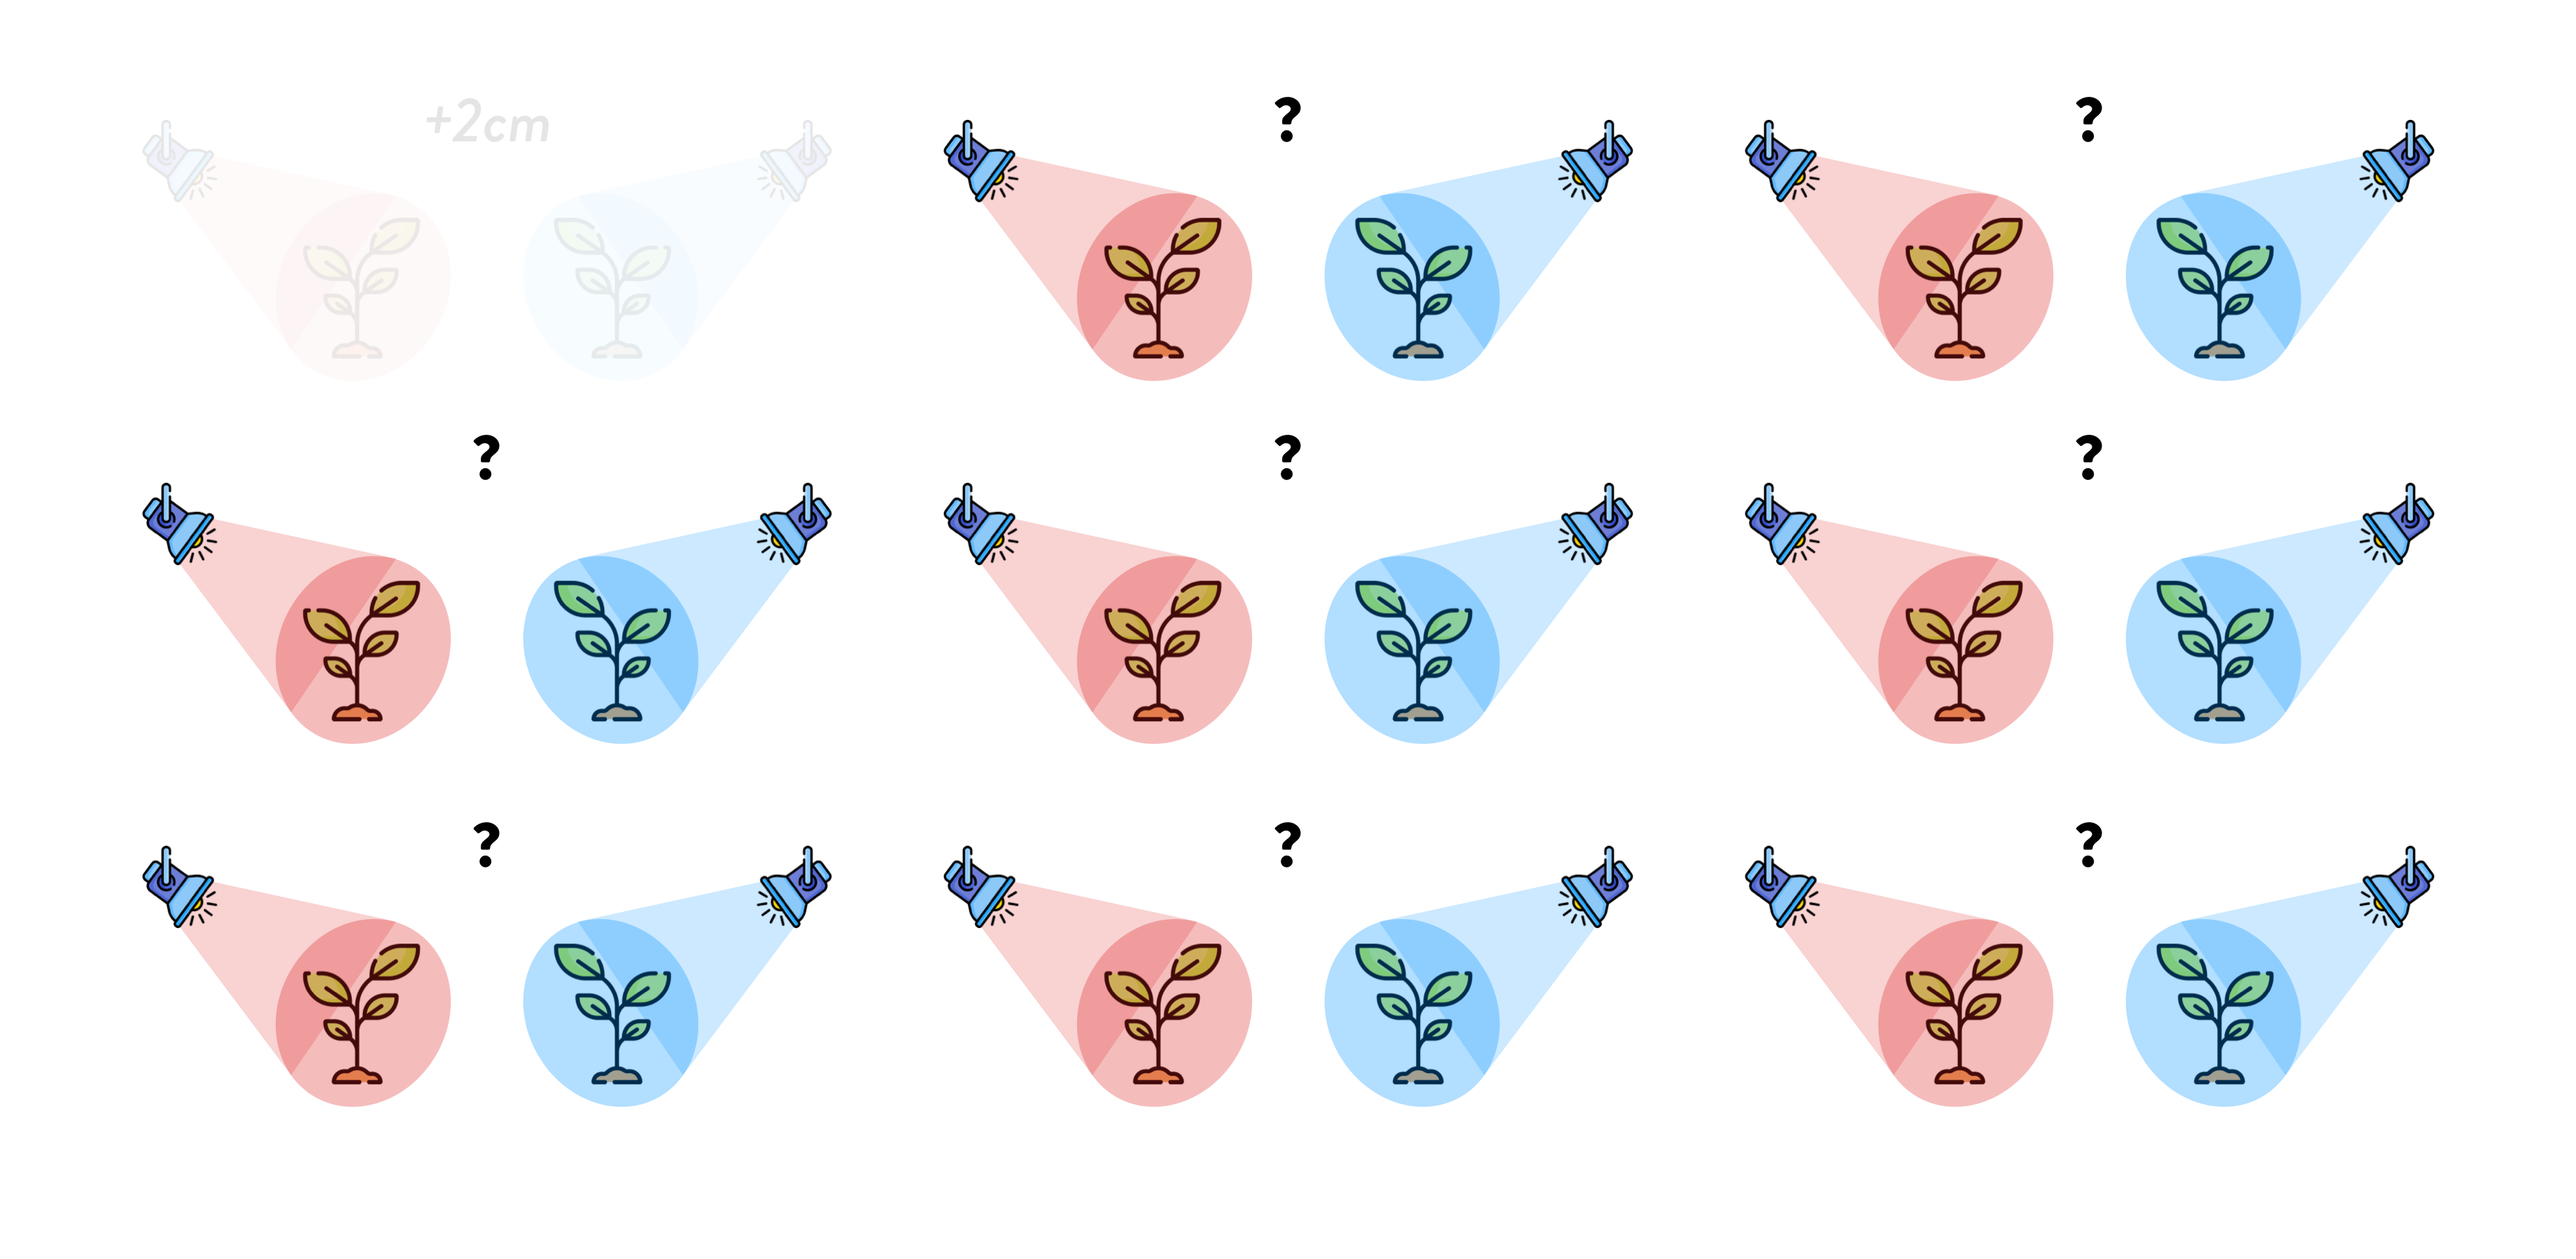
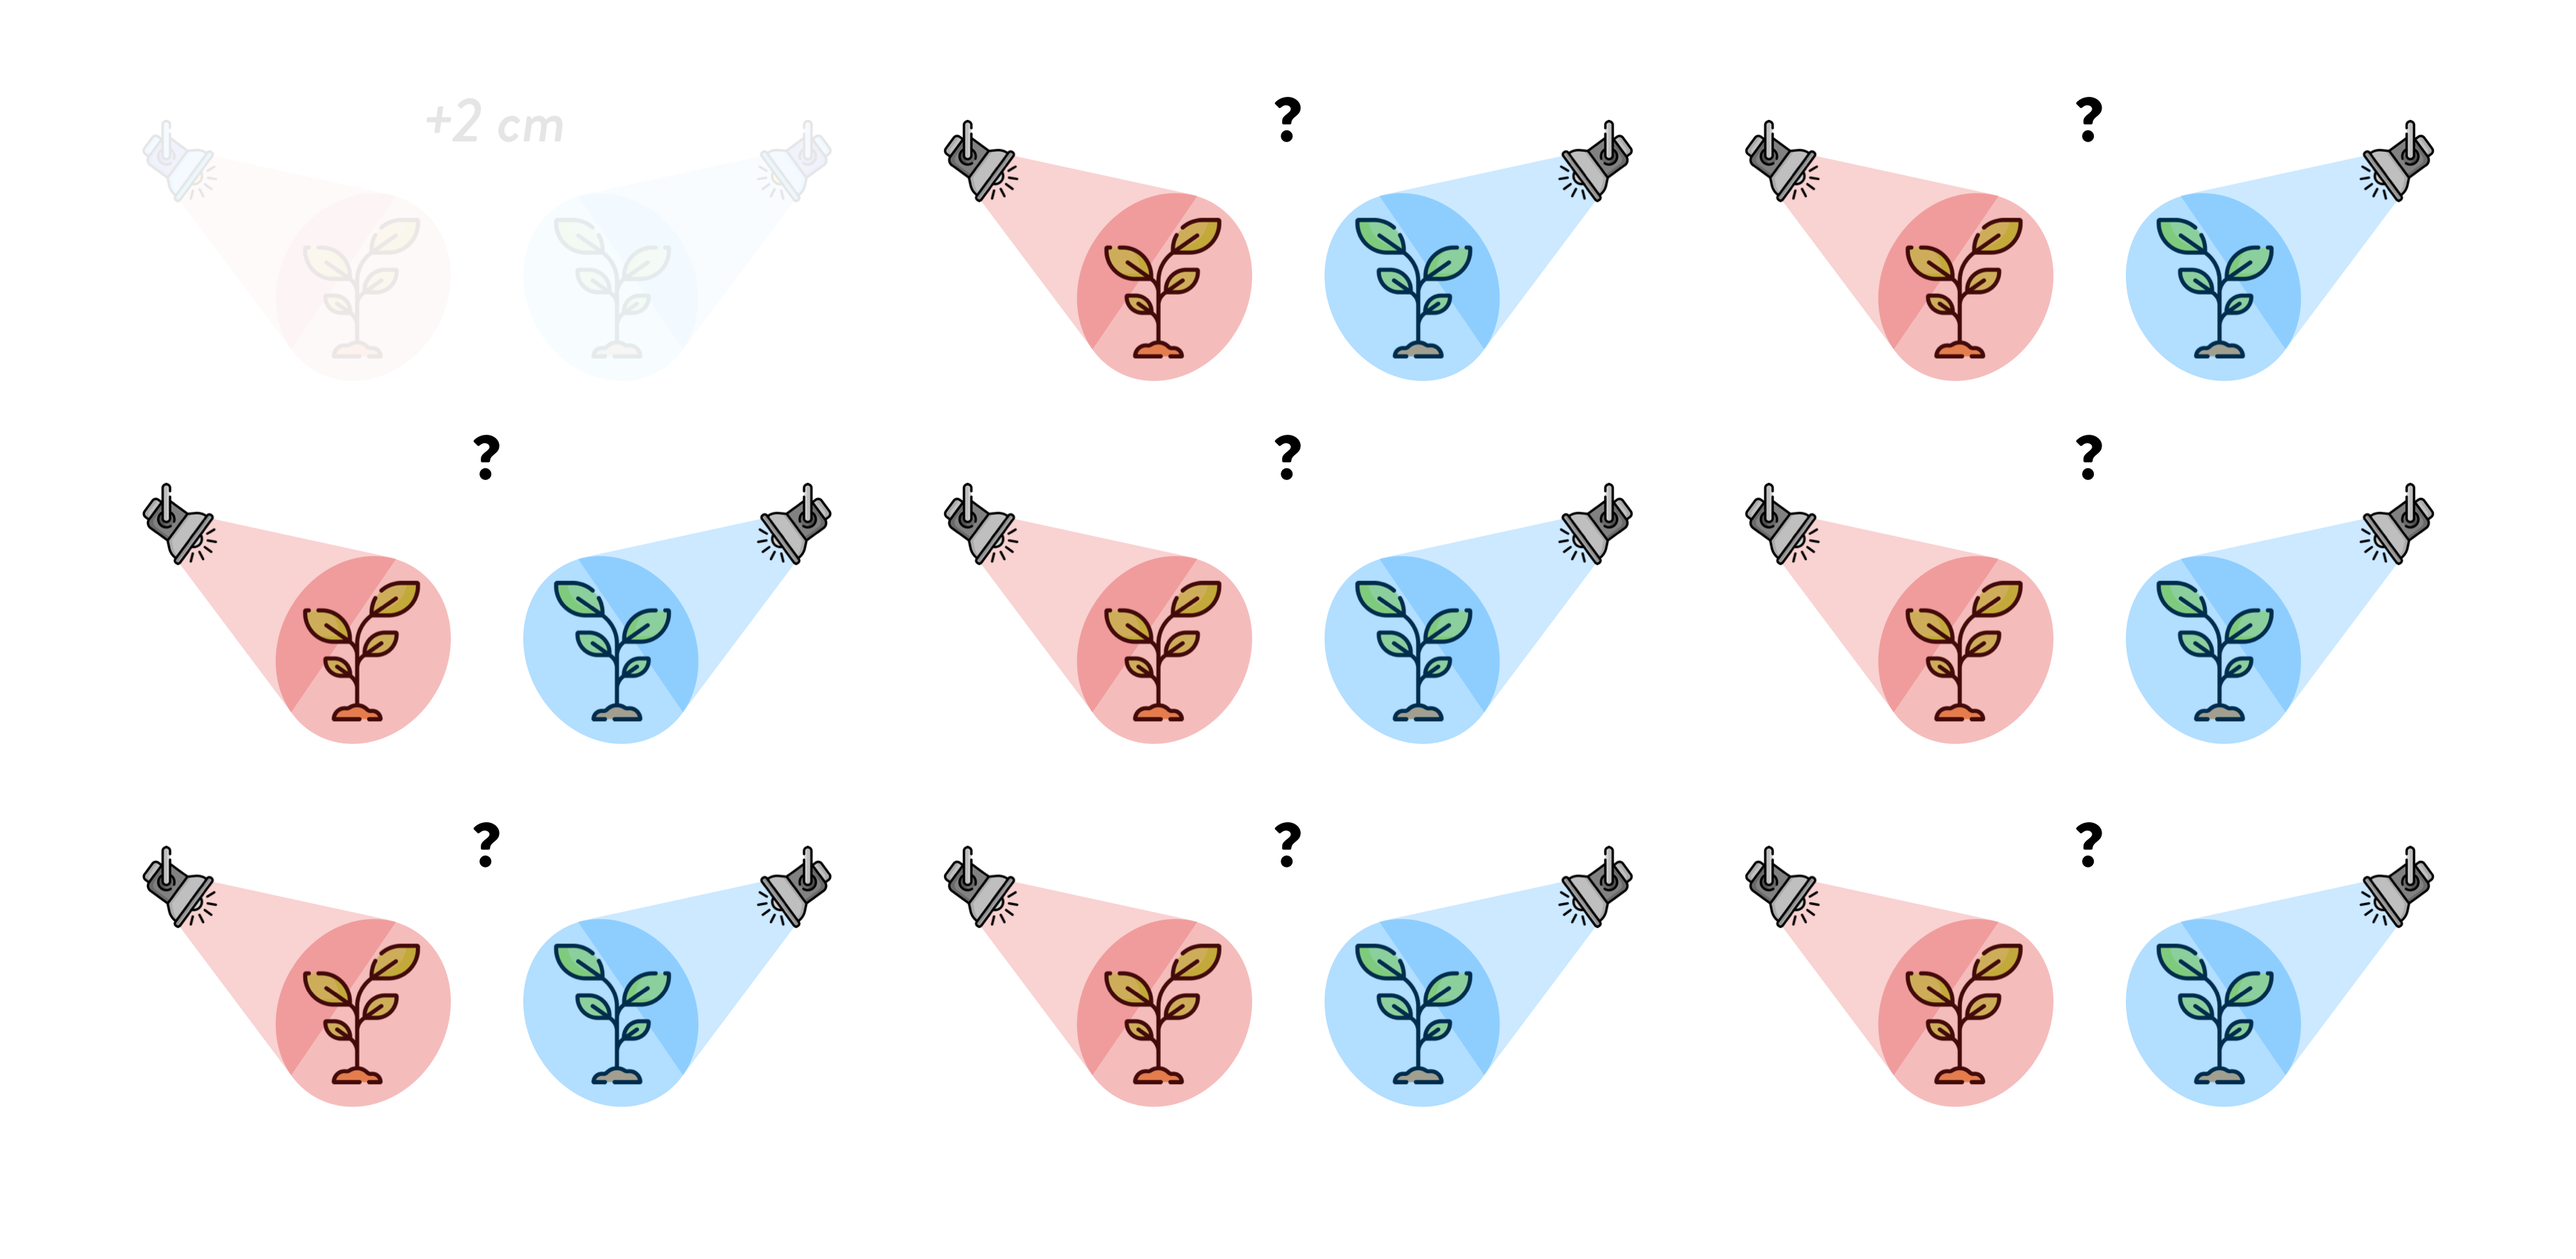
♻ - edit slides

diff --git a/index.html b/index.html
@@ -9,6 +9,7 @@
     <link href="libs/remark-css/shinobi.css" rel="stylesheet" />
     <link href="libs/remark-css/metropolis-fonts.css" rel="stylesheet" />
     <link href="libs/tachyons/tachyons.min.css" rel="stylesheet" />
+    <link rel="stylesheet" href="extra.css" type="text/css" />
   </head>
   <body>
     <textarea id="source">
@@ -25,19 +26,81 @@ class: center, middle, inverse, title-slide
 
 
 
-class: center middle
+# From research question to p-value
 
-![:scale 125%](img/nhst-p-value.png)
+&lt;br&gt;
+
+.center[![:scale 30%](img/mars.png)]
 
 ???
 
-Imagine we want to know if the colour of a light a plant is exposed to has an effect on the rate of growth of the plant.
+Let's imagine we want to more to Mars and grow crops and plants.
+
+Given the predominant colour of Mars, we wonder whether the light of the planet will have an effect on plant growth.
+
+---
+
+# From research question to p-value
+
+&lt;br&gt;
+
+&lt;br&gt;
+
+&lt;br&gt;
+
+![:scale 125%](img/nhst-p-value-1.png)
+
+???
+
+So now we want to know if the colour of the light a plant is exposed to has an effect on the rate of growth of the plant.
+
+---
+
+# From research question to p-value
+
+&lt;br&gt;
+
+&lt;br&gt;
+
+&lt;br&gt;
+
+![:scale 125%](img/nhst-p-value-2.png)
+
+???
 
 So we run an experiment: a group of plants is exposed to red light and another group is exposed to blue light.
 
-After a month of exposure, we measure the height of the plants in the two groups and we find that the plants exposed to the blue light are on average 2cm taller than the plants exposed to the red light.
+---
 
-We then run a statistical test which returns a *p*-value. More precisely, `\(p = 0.03\)`.
+# From research question to p-value
+
+&lt;br&gt;
+
+&lt;br&gt;
+
+&lt;br&gt;
+
+![:scale 125%](img/nhst-p-value-3.png)
+
+???
+
+After a month of exposure, we measure the height of the plants in the two groups and we find that the plants exposed to the blue light are on average 2 cm taller than the plants exposed to the red light.
+
+---
+
+# From research question to p-value
+
+&lt;br&gt;
+
+&lt;br&gt;
+
+&lt;br&gt;
+
+![:scale 125%](img/nhst-p-value-4.png)
+
+???
+
+We run a statistical test which returns a *p*-value. More precisely, `\(p = 0.03\)`.
 
 But what does the *p*-value mean?
 
@@ -51,7 +114,7 @@ class: center middle
 
 Let's step back a moment.
 
-In this experiment we got a result of +2cm (plants exposed to blue light were 2cm taller than plants exposed to red light).
+In this experiment we got a result of +2cm (plants exposed to blue light were 2 cm taller than plants exposed to red light).
 
 But this is just ONE experiment of many.
 
@@ -63,7 +126,7 @@ class: center middle
 
 ???
 
-So, now we want to know whether the result we observed in this one experiment would be observed again if we ran many more identical experiments (let's say, 100 experiments more, or 500, or an infinite number).
+So, now we want to know whether the result we observed in this one experiment would be observed again if we ran many more identical experiments.
 
 ---
 
@@ -73,9 +136,9 @@ class: center middle
 
 ???
 
-We want to know this because it is possible that, although we observed a difference of +2cm in this experiment, we might have observed no difference (i.e. difference = 0cm) in any other repetition of the experiment.
+We want to know this because it is possible that, although we observed a difference of +2 cm in this experiment, we might have observed no difference (i.e. difference = 0 cm) in any other repetition of the experiment.
 
-And we don't want this to happen! (We don't want to find a difference of +2cm while in fact there is no difference)
+And we don't want this to happen! (We don't want to find a difference of +2 cm while in fact there is no difference)
 
 ---
 
@@ -126,9 +189,9 @@ class: center middle
 
 ???
 
-The probability of finding a difference of +2cm when in fact there is no difference is 0.03, in other words observing a +2cm difference has 3% probability of occurring if the null hypothesis is true.
+The probability of finding a difference of +2 cm or an even bigger difference when in fact there is no difference is 0.03, in other words observing a +2 cm difference or a bigger difference has 3% probability of occurring if the null hypothesis is true.
 
-We want that probability to be as low as possible, but how low is low?
+In principle, we want that probability to be as low as possible, but in practice?
 
 We will talk about this and other aspects of p-values in our next class!
     </textarea>

diff --git a/extra.css b/extra.css
@@ -1,0 +1,8 @@
+.mid-center {
+  margin: 0;
+  position: absolute;
+  top: 50%;
+  left: 50%;
+  -ms-transform: translate(-50%, -50%);
+  transform: translate(-50%, -50%);
+}
